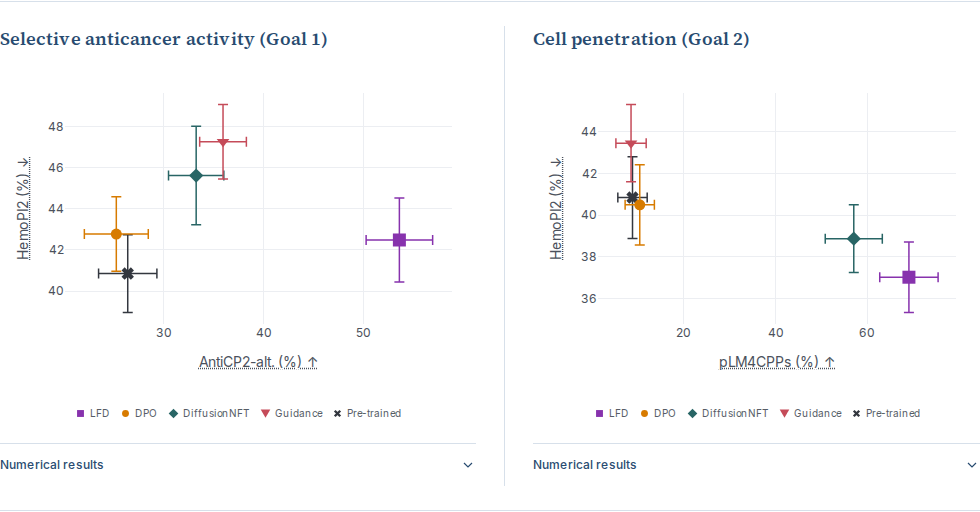
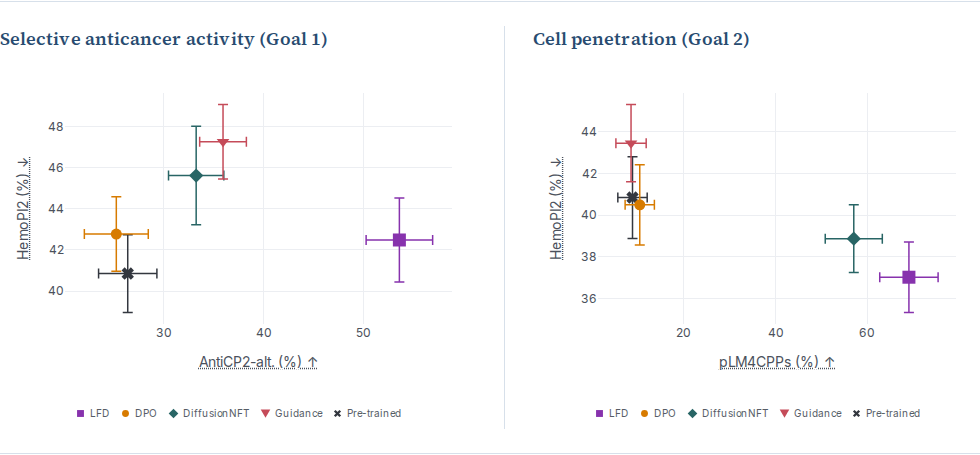
Simplify results to plots and introduce verbatim LLM traces

diff --git a/results.js b/results.js
@@ -98,13 +98,6 @@
       yaxis:{fixedrange:true,title:{text:result.metrics[yIndex].label+' ↓',standoff:16},gridcolor:'#eceef2',zeroline:false,automargin:true}
     }),[['.xtitle',metricKeys(result)[0]],['.ytitle',metricKeys(result)[yIndex]]]);
   }
-  function methodLabel(method) {
-    return `<span class="table-method" style="color:${style(method).color}">${esc(method === 'LFD' ? 'LFD · ours' : method)}</span>`;
-  }
-  function renderTable(result) {
-    const best = result.metrics.map((metric,i)=>(metric.direction === 'up' ? Math.max : Math.min)(...result.rows.map(row=>row.values[i][0])));
-    $('#results-table-'+result.id).innerHTML = `<caption class="sr-only">${esc(result.name)}. Higher is better for up arrows, lower for down arrows. Distance from prior is descriptive.</caption><thead><tr><th scope="col">Method</th>${result.metrics.map((m,i)=>`<th scope="col">${metricLabel(metricKeys(result)[i],m.label+(i === 2 && result.table === 1 ? '' : '\u00a0'+(m.direction === 'up' ? '↑' : '↓')))}</th>`).join('')}</tr></thead><tbody>${result.rows.map(row=>`<tr class="${row.method === 'LFD' ? 'ours' : ''}"><th scope="row">${methodLabel(row.method)}</th>${row.values.map(([mean,error],i)=>`<td class="${!(i === 2 && result.table === 1) && mean === best[i] ? 'best' : ''}"><span class="table-mean">${mean.toFixed(2)}</span> <span class="table-uncertainty">± ${error.toFixed(2)}</span></td>`).join('')}</tr>`).join('')}</tbody>`;
-  }
   const dockingMetrics = [
     {label:'GNINA', tick:'GNINA<br>(pK)', unit:' pK'},
     {label:'Vina', tick:'|Vina|<br>(kcal/mol)', unit:' kcal/mol'},
@@ -116,7 +109,7 @@
   }
   function noveltyMarkup() {
     const rows=window.LFD_DATA.charts.novelty;
-    return `<figure class="scaffold-novelty"><div class="novelty-chart-frame result-plot-frame"><div id="novelty-chart" class="interactive-chart" role="region" aria-label="Interactive GSK3 beta scaffold novelty and docking quality comparison"></div><div class="novelty-axis-help">${metricLabel('novelty','Novel scaffolds in top 100 ↑','novelty-axis-label')}</div></div>${legend(rows.map(row=>row.method))}<div class="sr-only"><table><caption>GSK3 beta scaffold novelty and docking quality, means with 95% confidence intervals</caption><thead><tr><th scope="col">Method</th><th scope="col">Novel scaffolds</th><th scope="col">Negative rDock, top 5%</th></tr></thead><tbody>${rows.map(row=>`<tr><th scope="row">${esc(row.method)}</th><td>${interval(row.noveltyMean,row.noveltyCI95)}</td><td>${interval(row.negativeRDockMean,row.negativeRDockCI95,3)}</td></tr>`).join('')}</tbody></table></div></figure>`;
+    return `<figure class="scaffold-novelty"><div class="novelty-chart-frame result-plot-frame"><div id="novelty-chart" class="interactive-chart" role="region" aria-label="Interactive GSK3 beta scaffold novelty and docking quality comparison"></div><div class="novelty-axis-help">${metricLabel('novelty','Novel scaffolds in top 100 ↑','novelty-axis-label')}</div></div>${legend(rows.map(row=>row.method))}</figure>`;
   }
   function molecularExample(task) {
     if (task.id !== 'd2' && task.id !== 'gsk3b') return '';
@@ -269,11 +262,10 @@
     const goalNumber=window.LFD_DATA.resultPanels.tasks.find(task=>task.id===id).number;
     const heading=`<h4>${names[id]} (Goal&nbsp;${goalNumber})</h4>`;
     if (!result) return `<article class="result-overview discovery-overview" data-result-overview="${id}">${heading}${discoveryMarkup()}</article>`;
-    const mainPlot=result.table===1 ? scatterMarkup(result) : id==='gsk3b' ? noveltyMarkup() : dockingMarkup(result,false);
-    const table=`<div class="table-scroll" tabindex="0" role="region" aria-label="${esc(result.name)} numerical results"><table id="results-table-${id}" class="results-table"></table></div>`;
-    const extra=id==='gsk3b' ? dockingMarkup(result) : result.table===2 ? molecularExample(result) : '';
-    const label=id==='gsk3b' ? 'Docking scores and numerical results' : 'Numerical results';
-    return `<article class="result-overview" data-result-overview="${id}">${heading}${mainPlot}<details class="result-metrics" data-result-metrics="${id}"><summary><strong>${label}</strong><svg viewBox="0 0 20 20" aria-hidden="true"><path d="m5 7.5 5 5 5-5"/></svg></summary><div class="result-metrics-content">${extra}${table}</div></details></article>`;
+    const mainPlot=result.table===1 ? scatterMarkup(result) : dockingMarkup(result);
+    const scaffold=id==='gsk3b' ? noveltyMarkup() : '<p class="scaffold-placeholder">Scaffold novelty results for dopamine D2 will be added here.</p>';
+    const more=result.table===2 ? `<details class="result-metrics" data-result-metrics="${id}"><summary><strong>Scaffold novelty</strong><svg viewBox="0 0 20 20" aria-hidden="true"><path d="m5 7.5 5 5 5-5"/></svg></summary><div class="result-metrics-content">${scaffold}</div></details>` : '';
+    return `<article class="result-overview" data-result-overview="${id}">${heading}${mainPlot}${more}</article>`;
   }
   function init(results) {
     const data=window.LFD_DATA;
@@ -293,17 +285,16 @@
       const prompt=task.stages.find(stage=>stage.id==='g').exactGoal;
       return `<article class="goal-accordion" data-generator="${esc(goal.generator)}"><h3 class="goal-heading"><button type="button" id="result-card-${esc(goal.id)}" class="result-card" aria-expanded="false" aria-controls="goal-content-${esc(goal.id)}" aria-labelledby="result-number-${esc(goal.id)} result-name-${esc(goal.id)}" aria-describedby="goal-prompt-${esc(goal.id)}" data-result-task="${esc(goal.id)}" data-generator="${esc(goal.generator)}"><span class="goal-title-line"><span id="result-number-${esc(goal.id)}" class="goal-number">Goal ${goal.number}</span><span id="result-name-${esc(goal.id)}" class="result-task-name">${esc(goal.name)}</span></span><span id="goal-prompt-${esc(goal.id)}" class="goal-prompt goal-quotation"><strong>Discovery prompt:</strong> <q>${esc(prompt)}</q></span><span class="goal-card-state" aria-hidden="true"></span></button></h3><div id="goal-content-${esc(goal.id)}" class="goal-content" hidden></div></article>`;
     };
-    cards.innerHTML=caseStudies.map(study=>`<section id="${study.id}" class="case-study" data-generator="${study.generator}" aria-labelledby="case-title-${study.id}"><header class="case-study-heading"><h3 id="case-title-${study.id}" class="section-heading"><a class="section-anchor" href="#${study.id}" aria-label="Link to ${study.domain.toLowerCase()} case study">#</a><span>Case study ${study.number}: ${study.title}</span></h3><p class="case-generator"><span>Generator:</span> <strong>${study.generator}</strong></p><p class="case-description">${study.description}</p></header><div class="case-results-summary">${study.tasks.map(id=>resultOverview(id,results)).join('')}</div><p class="trace-verbatim-note">All recorded LLM goal-selection rationales and judge traces below are shown verbatim.</p><div class="goal-accordions">${goals.filter(goal=>study.tasks.includes(goal.id)).map(goalMarkup).join('')}</div></section>`).join('');
-    results.forEach(renderTable);
-    fonts.then(()=>Promise.all(results.map(result=>result.table===1 ? renderScatter(result) : result.id==='gsk3b' ? renderNovelty() : renderDockingBars(result))))
+    cards.innerHTML=caseStudies.map(study=>`<section id="${study.id}" class="case-study" data-generator="${study.generator}" aria-labelledby="case-title-${study.id}"><header class="case-study-heading"><h3 id="case-title-${study.id}" class="section-heading"><a class="section-anchor" href="#${study.id}" aria-label="Link to ${study.domain.toLowerCase()} case study">#</a><span>Case study ${study.number}: ${study.title}</span></h3><p class="case-generator"><span>Generator:</span> <strong>${study.generator}</strong></p><p class="case-description">${study.description}</p></header><div class="case-results-summary">${study.tasks.map(id=>resultOverview(id,results)).join('')}</div><div class="trace-introduction"><h4>LLM traces</h4><p class="trace-verbatim-note">All the reported LLM traces below for goal-selection rationales and judgments are shown verbatim.</p></div><div class="goal-accordions">${goals.filter(goal=>study.tasks.includes(goal.id)).map(goalMarkup).join('')}</div></section>`).join('');
+    fonts.then(()=>Promise.all(results.map(result=>result.table===1 ? renderScatter(result) : renderDockingBars(result))))
       .then(()=>{cards.dataset.plotsReady='true';});
     cards.querySelectorAll('[data-result-metrics]').forEach(details=>{
       details.addEventListener('toggle',async()=>{
         closeMetricHelp();
         if (!details.open) return;
         await fonts;
-        if (details.dataset.resultMetrics==='gsk3b' && !$('#docking-gsk3b').data) {
-          await renderDockingBars(results.find(result=>result.id==='gsk3b'));
+        if (details.dataset.resultMetrics==='gsk3b' && !$('#novelty-chart').data) {
+          await renderNovelty();
         }
         details.querySelectorAll('.js-plotly-plot').forEach(plot=>Plotly.Plots.resize(plot));
       });

diff --git a/site.css b/site.css
@@ -473,7 +473,6 @@ footer { padding-block: 26px; border-top: 1px solid var(--line); display: flex; 
 [data-generator="PepDFM"] { --goal-accent: #345d86; --goal-surface: #f7f9fc; --goal-border: #d7e0ea; --goal-strong: #284b70; --goal-selected: #edf2f8; }
 [data-generator="FlowMol3"] { --goal-accent: #216d62; --goal-surface: #f6faf8; --goal-border: #d3e3db; --goal-strong: #1b584f; --goal-selected: #edf5f0; }
 .generator-legend { display: flex; flex-wrap: wrap; align-items: center; gap: 8px 12px; margin: 14px 0; font-size: 13px; }
-.trace-verbatim-note { margin: 12px 0 18px; font-size: 12px; line-height: 1.7; color: #606875; }
 .generator-legend > span:first-child { margin-right: 4px; color: #535964; }
 .generator-label { display: inline-flex; align-items: center; gap: 5px; padding: 2px 0; border: 0; border-radius: 0; background: transparent; color: var(--goal-strong); font-size: 12px; font-weight: 500; line-height: 1.5; white-space: nowrap; }
 .generator-label > span { font-weight: 400; }
@@ -661,7 +660,7 @@ footer { padding-block: 26px; border-top: 1px solid var(--line); display: flex; 
 }
 
 /* Serif reading text, with a consistent sans-serif layer for navigation and data. */
-.generator-legend, .trace-verbatim-note, .observable-toggle, .observable-list,
+.generator-legend, .observable-toggle, .observable-list,
 .curriculum-tabs, .explorer-tabs, .plot-key, .metric-tooltip, .judgment-badge,
 .candidate-observables, .representation-header, .judge-passes, .evidence-status,
 .placeholder-note, .placeholder-notice, figcaption, footer, #toast { font-family: var(--sans); }
@@ -821,15 +820,15 @@ footer { padding-block: 26px; border-top: 1px solid var(--line); display: flex; 
 .result-metrics > summary svg { width: 16px; height: 16px; fill: none; stroke: currentColor; stroke-width: 1.5; flex-shrink: 0; }
 .result-metrics[open] > summary svg { transform: rotate(180deg); }
 .result-metrics-content { padding-top: 8px; min-width: 0; }
-.result-metrics-content .table-scroll { margin-top: 12px; }
-.result-metrics-content .results-table th, .result-metrics-content .results-table td { padding: 12px 8px; }
-.result-metrics-content .results-table .table-mean { font-size: 14px; }
-.result-metrics-content .results-table .table-uncertainty { font-size: 11px; }
-.result-metrics-content .results-table thead th { white-space: normal; }
-.result-metrics-content .task-molecule { max-width: 360px; margin: 18px auto; }
+.result-overview .task-molecule { max-width: 360px; margin: 18px auto; }
+.result-overview .task-molecule img { height: 185px; object-fit: contain; }
+.scaffold-placeholder { padding: 28px 16px; margin: 0; background: var(--goal-surface); color: var(--goal-strong); font: 14px/1.65 var(--sans); }
+.trace-introduction { margin: 28px 0 22px; }
+.trace-introduction h4 { margin: 0 0 12px; font: 600 20px/1.4 var(--serif); color: #253e32; }
+.trace-introduction .trace-verbatim-note { margin: 0; font: inherit; color: inherit; }
+@media (max-width: 760px) { .trace-introduction h4 { font-size: 18px; } }
 .discovery-overview { grid-column: 1 / -1; padding-top: 24px; border-top: 1px solid var(--goal-border); }
 .discovery-overview .discovery-summary { margin: 0; }
-.trace-verbatim-note { font-size: 11px; margin: 0 0 16px; }
 .goal-accordions { margin: 0; gap: 12px; }
 .goal-accordion { background: #fff; border-color: var(--goal-border); border-radius: 5px; }
 .result-card { padding: 17px 54px 17px 22px; border-radius: 4px; background: var(--goal-surface); }

diff --git a/index.html b/index.html
@@ -16,11 +16,11 @@
   <link rel="preload" href="assets/fonts/source-serif-4-normal-latin.woff2" as="font" type="font/woff2" crossorigin>
   <link rel="preload" href="assets/fonts/inter-latin.woff2" as="font" type="font/woff2" crossorigin>
   <link rel="stylesheet" href="assets/katex/katex.min.css?v=f76ac5391ddb">
-  <link rel="stylesheet" href="site.css?v=3f2337b537f8">
+  <link rel="stylesheet" href="site.css?v=129717bd8a85">
   <script src="assets/katex/katex.min.js?v=608ba6519084" defer></script>
   <script src="data/site-data.js?v=64a47da44cbe" defer></script>
   <script src="assets/plotly/plotly-basic.min.js?v=99784e3abfb0" defer></script>
-  <script src="results.js?v=d87c85531c6c" defer></script>
+  <script src="results.js?v=4ed6a90f180e" defer></script>
   <script src="calibration.js?v=97f9406cc188" defer></script>
   <script src="site.js?v=7e569d879f9c" defer></script>
 </head>

diff --git a/scripts/check_results.py b/scripts/check_results.py
@@ -38,11 +38,6 @@ def main():
             task = result['id']
             overview = page.locator(f'[data-result-overview="{task}"]')
             assert f'Goal {next(g["number"] for g in panel_data["tasks"] if g["id"]==task)}' in overview.locator('h4').inner_text().replace('\xa0',' ')
-            table = overview.locator('.results-table')
-            for index,row in enumerate(result['rows']):
-                tr=table.locator('tbody tr').nth(index)
-                assert tr.locator('td').all_text_contents() == [f'{mean:.2f} ± {error:.2f}' for mean,error in row['values']]
-                assert tr.locator('.table-method').evaluate('(el)=>el.style.color') == 'rgb('+', '.join(str(int(colors[row['method']][i:i+2],16)) for i in (1,3,5))+')'
             if result['table']==1:
                 chart=overview.locator('.js-plotly-plot')
                 actual=chart.evaluate('(el)=>el.data.map(t=>({method:t.name,x:t.x[0],y:t.y[0],dx:t.error_x.array[0],dy:t.error_y.array[0],color:t.marker.color,symbol:t.marker.symbol,xc:t.error_x.color,yc:t.error_y.color}))')
@@ -52,10 +47,6 @@ def main():
                 expect(chart.locator('.hoverlayer')).to_contain_text('LFD')
                 for mean,error in result['rows'][-1]['values']:
                     expect(chart.locator('.hoverlayer')).to_contain_text(f'{mean:.2f} ± {error:.2f}')
-            details=overview.locator('.result-metrics')
-            expect(details).not_to_have_attribute('open','')
-            details.locator('summary').focus();page.keyboard.press('Enter')
-            expect(table).to_be_visible()
             if result['table']==2:
                 chart=overview.locator(f'#docking-{task}')
                 page.wait_for_function('(id)=>document.querySelector(id).data !== undefined',arg=f'#docking-{task}')
@@ -72,11 +63,27 @@ def main():
                 expect(chart.locator('.hoverlayer')).to_contain_text('LFD')
                 expect(chart.locator('.hoverlayer')).to_contain_text('Original score:')
                 assert chart.locator('.errorbar path').evaluate_all('(els)=>els.length>0 && els.every(el=>getComputedStyle(el).stroke==="rgb(0, 0, 0)")')
-            details.locator('summary').click()
-            expect(table).not_to_be_visible()
+        assert page.locator('#result-cards table').count()==0
+        assert page.locator('.result-metrics').count()==2
+        for task in ['d2','gsk3b']:
+            details=page.locator(f'[data-result-metrics="{task}"]')
+            expect(details.locator('summary')).to_contain_text('Scaffold novelty')
+            details.locator('summary').focus();page.keyboard.press('Enter')
+            if task=='d2':
+                expect(details).to_contain_text('will be added here')
+                assert details.locator('.interactive-chart').count()==0
+            else:
+                page.wait_for_function('document.querySelector("#novelty-chart").data !== undefined')
         chart=page.locator('#novelty-chart')
         actual=chart.evaluate('(el)=>el.data.map(t=>({method:t.name,x:t.x[0],y:t.y[0],dx:t.error_x.array[0],dy:t.error_y.array[0],color:t.marker.color,xc:t.error_x.color,yc:t.error_y.color}))')
         assert actual==[dict(method=r['method'],x=r['noveltyMean'],y=r['negativeRDockMean'],dx=r['noveltyCI95'],dy=r['negativeRDockCI95'],color=colors[r['method']],xc=colors[r['method']],yc=colors[r['method']]) for r in novelty]
+        page.locator('[data-result-metrics="d2"] summary').click()
+        page.locator('[data-result-metrics="gsk3b"] summary').click()
+        for study in ['peptides','molecules']:
+            intro=page.locator(f'#{study} .trace-introduction')
+            expect(intro.locator('h4')).to_have_text('LLM traces')
+            expect(intro.locator('p')).to_contain_text('goal-selection rationales and judgments are shown verbatim.')
+            assert intro.locator('p').evaluate('(el)=>{const a=getComputedStyle(el),b=getComputedStyle(document.querySelector(".method-introduction"));return a.fontFamily===b.fontFamily && a.fontSize===b.fontSize && a.lineHeight===b.lineHeight}')
         hit=page.locator('.discovery-overview')
         expect(hit).to_contain_text('0 / 38,500')
         expect(hit).to_contain_text('A full-goal hit')
@@ -113,6 +120,9 @@ def main():
         touch.wait_for_function('document.querySelector("#result-cards").dataset.plotsReady === "true"')
         for task,kind in [('anticancer','scatter'),('cpp','scatter'),('d2','bar'),('gsk3b','novelty')]:
             selector='#novelty-chart' if kind=='novelty' else f'#docking-{task}' if kind=='bar' else f'#comparison-{task}'
+            if kind=='novelty':
+                touch.locator('[data-result-metrics="gsk3b"] summary').tap()
+                touch.wait_for_function('document.querySelector("#novelty-chart").data !== undefined')
             chart=touch.locator(selector)
             point=chart.locator('.barlayer .trace').last.locator('.point path').first if kind=='bar' else chart.locator('.scatterlayer .trace').last.locator('.point')
             point.tap(force=True)
@@ -122,7 +132,7 @@ def main():
         mobile.close();browser.close()
     assert not errors,errors
     assert not failures,failures
-    report={'status':'passed','primary_plots':4,'supplementary_docking_plot':1,'source_tables':4,
+    report={'status':'passed','primary_plots':4,'expandable_scaffold_plot':1,'dopamine_placeholder':True,'rendered_tables':0,
             'goal5_hit':'preserved','results_outside_traces':'passed','persistent_plot_nodes':'passed',
             'hover_touch':'passed','black_docking_intervals':'passed','colored_scaffold_intervals':'passed',
             'viewports':widths,'browser_errors':errors,'failed_http_requests':failures}

diff --git a/README.md b/README.md
@@ -2,7 +2,7 @@
 
 An interactive research website for **LLM-to-Flow Distillation: Teaching Natural Language Goals to Scientific Generators**.
 
-The site presents the method and two case studies: peptides (PepDFM) and small molecules (FlowMol3). Each case study leads with always-visible interactive results: activity–toxicity scatterplots for both peptide tasks, docking improvements for D2, scaffold novelty for GSK3β, and the annotated Goal 5 hit. Exact numerical tables, supplementary docking scores, and molecular poses are available directly beneath the plots. Each full-width discovery prompt opens LLM inputs and subgoals with immediately visible rationale/judge tabs. Results remain outside these trace boxes. The 23 curriculum/assessment stages include 64 recorded candidates with two judge passes each, plus 28 explicitly marked placeholder slots. The goal wording, rationales, and uncertainties are verbatim; task/subgoal views support shareable URLs.
+The site presents the method and two case studies: peptides (PepDFM) and small molecules (FlowMol3). Each case study leads with always-visible interactive results: activity–toxicity scatterplots for both peptide tasks, docking improvements for D2 and GSK3β, and the annotated Goal 5 hit. Molecular poses accompany the docking plots. Scaffold novelty expands beneath each molecular result: GSK3β has an interactive plot, while D2 has an explicit placeholder. Numerical tables are omitted. Each full-width discovery prompt opens LLM inputs and subgoals with immediately visible rationale/judge tabs. Results remain outside these trace boxes. The 23 curriculum/assessment stages include 64 recorded candidates with two judge passes each, plus 28 explicitly marked placeholder slots. The goal wording, rationales, and uncertainties are verbatim; task/subgoal views support shareable URLs.
 
 The visual design follows the editorial typography and spacing of [CUES](https://www.sophielwang.com/cues): a left-aligned title and author block, a 760px header column, wider figures, restrained colors, and prominent serif section headings. Self-hosted Source Serif 4 supplies the prose and headings; Inter keeps controls, tables, and plot labels compact. Verified author websites and six official institution logos make affiliations easy to explore. Prominent section headings use teal anchor links and clear horizontal breaks. A numbered contents list sits beside Code and arXiv previews, with a matching scroll-aware menu on the left. The method uses an unboxed academic layout with a ruled algorithm and a plain design-space paragraph; experiment disclosures retain light blue for PepDFM and light green for FlowMol3. The left contents menu links directly to both case studies and becomes a compact menu on smaller screens. The arXiv resource remains disabled until its URL is available; its thumbnail is rendered from the supplied preprint.
 
@@ -72,7 +72,7 @@ Edit the JSON sources and run `python3 scripts/build.py` to regenerate `data/sit
 
 Visual references supplied by the authors: [CUES](https://www.sophielwang.com/cues), [Vera](https://vera-layered-diffusion.github.io/) and [Discrete Flow Maps](https://malbergo.me/discrete-flow-maps.github.io/). The layout and interactive components here are original. Paper and figure rights remain with their authors; this repository does not assign them a new license.
 
-Interactive chart checks are in `scripts/check_results.py`. They verify all five task switches and keyboard/touch controls, peptide activity/toxicity coordinates, grouped docking deltas with negative improvements, signed hover values and black error bars, the GSK3β novelty plot, supplementary tables and docking figures, the fifth-task evidence, and layouts from 360px through 2560px.
+Interactive chart checks are in `scripts/check_results.py`. They verify all five task switches and keyboard/touch controls, peptide activity/toxicity coordinates, grouped docking deltas with negative improvements, signed hover values and black error bars, the GSK3β novelty plot, expandable scaffold novelty and docking figures, the fifth-task evidence, and layouts from 360px through 2560px.
 
 Case-study checks are in `scripts/check_case_studies.py`. They verify author links and logo loading, always-visible result plots, trace-only goal disclosures, figure enlargement and focus restoration, animation controls, and responsive layout.
 
